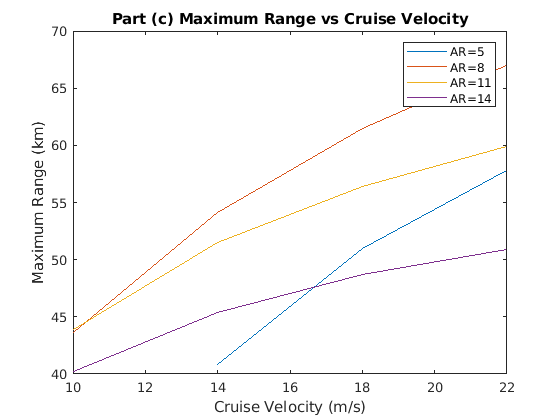
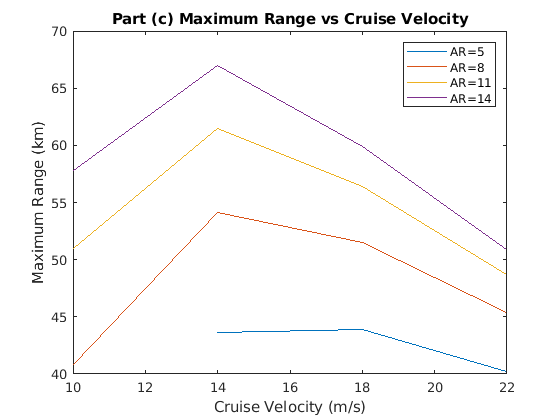
Add h2 graphs again.

diff --git a/ultimate_optimization.m b/ultimate_optimization.m
@@ -9,17 +9,17 @@ tic;
 
 %% Ultimate Optimization
 % define the minimum and maximum payload
-min_payload = 1; % kg
-max_payload = 1; % kg
-nStepsP = 1;
+min_payload = 0.5; % kg
+max_payload = 3; % kg
+nStepsP = 6;
 % define the minimum and maximum cruise velocity
-min_velocity = 10; % m/s
-max_velocity = 22; % m/s
-nStepsV = 4;
+min_velocity = 18; % m/s
+max_velocity = 18; % m/s
+nStepsV = 1;
 % define the minimum and maximum wingspan
-%min_wingspan = 0.55; % m
-%max_wingspan = 2.05; % m
-nStepsWS = 4;
+min_wingspan = 1.55; % m
+max_wingspan = 1.55; % m
+nStepsWS = 1;
 % define the minimum and maximum aspect ratio
 min_AR = 5; % -
 max_AR = 14; % -
@@ -28,9 +28,9 @@ nStepsAR = 4;
 % use those to calculate the range for the optimization
 payload_U = linspace(min_payload,max_payload,nStepsP);
 v_U = linspace(min_velocity,max_velocity,nStepsV);
-%wing_U = linspace(min_wingspan,max_wingspan,nStepsWS);
+wing_U = linspace(min_wingspan,max_wingspan,nStepsWS);
 AR_U = linspace(min_AR,max_AR,nStepsAR);
-wing_U = sqrt(AR_U * 1.55^2 / 6);
+%wing_U = sqrt((AR_U * 1.55^2)/6);
 
 %Define matrices for data collection
 RANGES_U = zeros(nStepsAR, nStepsWS, nStepsV, nStepsP);
@@ -50,6 +50,7 @@ propulsionmass_U = zeros(nStepsAR, nStepsWS, nStepsV, nStepsP);
 for j_ar = 1:nStepsAR
     for j_w = 1:nStepsWS
         for j_v = 1:nStepsV
+       %for j_w = j_v
             for j_m = 1:nStepsP
                 mass_Uav = payload_U(j_m);
                 velocity_Uav = v_U(j_v);
@@ -96,23 +97,70 @@ UAV_bodymass = bodymass_U(A,B,C,D);
 UAV_wingmass = wingmass_U(A,B,C,D);
 UAV_propulsionmass = propulsionmass_U(A,B,C,D);
 
-%% Part c, part i Plot maximum range versus cruise velocity
-% using line plots for different wing aspect ratio
-% values (each value for aspect ratio should be a separate line).
+%% Part c, part i
+% for i = 1:nStepsAR
+%     plot(v_U, reshape(max(RANGES_U(:, i, :, :)), 1, nStepsV), 'DisplayName', strcat('AR=', num2str(AR_U(i))));
+%     hold on
+% end
+% hold off
+% legend
+% xlabel('Cruise Velocity (m/s)')
+% ylabel('Maximum Range (km)')
+% title('Part (c) (i) Maximum Range vs Cruise Velocity')
 
-for i = 1:nStepsAR
-    maxRanges = zeros(1, nStepsV);
-    for j = 1:nStepsV
-        maxRanges(j,:) = max(RANGES_U(:, :, j, :));
-    end
-    plot(v_U, maxRanges(i, :), 'DisplayName', strcat('AR=', num2str(AR_U(i))));
-    hold on
-end
-hold off
-legend
-xlabel('Cruise Velocity (m/s)')
-ylabel('Maximum Range (km)')
-title('Part (c) Maximum Range vs Cruise Velocity')
+%% Part c, part ii
+% for i = 1:nStepsAR
+%     plot(v_U, reshape(max(RANGES_U(:, i, :, :)), 1, nStepsV), 'DisplayName', strcat('AR=', num2str(AR_U(i))));
+%     hold on
+% end
+% 
+% % additional simulated
+% rform_U = (5.5046e+04) * BATTS_U .* GlideRatio_U .* Eta_PRPLSN_U / 1000;
+% 
+% for i=1:nStepsAR
+%     plot(v_U, reshape(max(rform_U(:, i, :, :)), 1, nStepsV), 'DisplayName', strcat('Formula AR=', num2str(AR_U(i))));
+%     hold on
+% end
+% 
+% hold off
+% legend
+% xlabel('Cruise Velocity (m/s)')
+% ylabel('Maximum Range (km)')
+% title('Part (c) (ii) Maximum Range vs Cruise Velocity')
+
+%% Part d, aspect ratio
+% for i = 1:nStepsP
+%     plot(AR_U, RANGES_U(:, :, :, i), 'DisplayName', strcat('Payload=', num2str(payload_U(i))));
+%     hold on
+% end
+% hold off
+% legend
+% xlabel('Aspect Ratio (-)')
+% ylabel('Maximum Range (km)')
+% title('Part (d) Maximum Range vs Aspect Ratio')
+
+%% Part d, l/d ratio
+% for i = 1:nStepsP
+%     plot(AR_U, GlideRatio_U(:, :, :, i), 'DisplayName', strcat('Payload=', num2str(payload_U(i))));
+%     hold on
+% end
+% hold off
+% legend
+% xlabel('Aspect Ratio (-)')
+% ylabel('Glide Ratio (-)')
+% title('Part (d) L/D Ratio vs Aspect Ratio')
+
+
+%% Part e
+% for i = 1:nStepsP
+%     plot(wing_U, RANGES_U(:, :, :, i), 'DisplayName', strcat('Payload=', num2str(payload_U(i))));
+%     hold on
+% end
+% hold off
+% legend
+% xlabel('Aspect Ratio (-)')
+% ylabel('Maximum Range (km)')
+% title('Part (e) Maximum Range vs Wingspan')
 
 %%
 toc;
